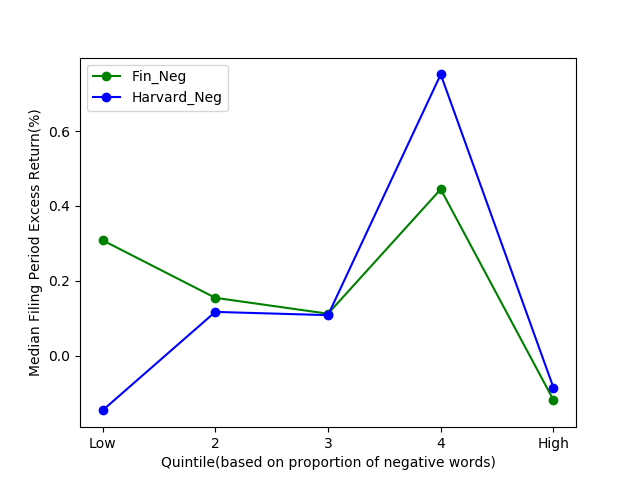
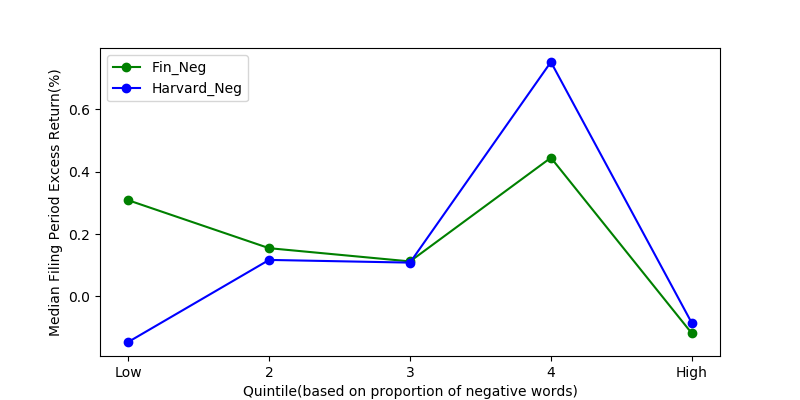
updates figures

diff --git a/filing_return.py b/filing_return.py
@@ -85,12 +85,14 @@ def get_result(ret_data):
 
 
 def compare_plot(master_result, harvard_result, name):
+    plt.figure(figsize=(8, 4))
     _ = plt.plot(master_result, 'go-', label='Fin_Neg')
     _ = plt.plot(harvard_result, 'bo-', label='Harvard_Neg')
     _ = plt.xlabel('Quintile(based on proportion of negative words)')
     _ = plt.ylabel('Median Filing Period Excess Return(%)')
     _ = plt.legend(loc='best')
     _ = plt.savefig(name + '_result.png')
+
 
 if __name__ == '__main__':
     master_dic = pd.read_csv('LoughranMcDonald_MasterDictionary_2018.csv')
